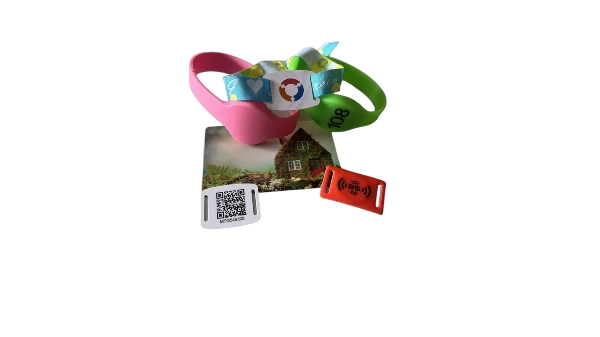
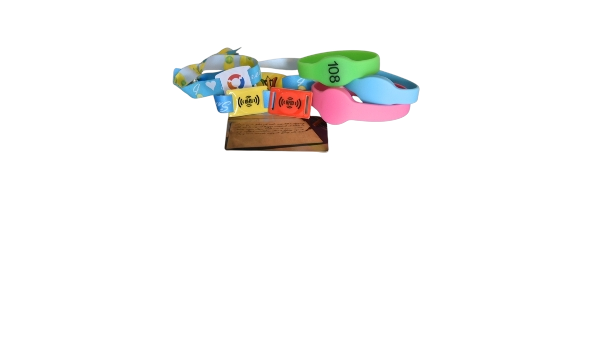
Changed the layout once more and adjusted the subpages

Changed region(s): [[0.27, 0.1187, 0.72, 0.6825]]

diff --git a/src/pages/Entertainment/subpages/Silicones.tsx b/src/pages/Entertainment/subpages/Silicones.tsx
@@ -71,43 +71,38 @@ const Silicones: React.FC = () => {
 
 	return (
 		<>
-			<Section fullHeight={false} className="overflow-visible min-h-screen h-auto flex flex-col">
-				<ProductsNav />
-				<div className="relative w-4/5 m-auto h-full py-10 flex-1">
-					<p className="text-xl font-semibold p-10 text-center block">
-						V ponuke silikóny fosforeskujúce, segmentované, silikónová kľúčenka, silikónové hodinky, náramok s potlačou QR kódu, náramok s číslovaním, atypický náramok, náramok s viacfarebnou potlačou.
-					</p>
-					<Grid cols={1} colsMd={2} colsLg={3} className="gap-10 px-20 flex-1">
-						{products.map((product, index) => (
-							/* <section
-								key={index}
-								ref={(el) => (sectionsRef.current[index] = el!)}
-								className={`w-full flex flex-col md:flex-row items-center justify-between py-12 px-6 md:px-20 gap-10
-									${index % 2 === 0 ? "md:flex-row-reverse" : ""}`}
-							>
-								<div className="w-full md:w-1/2">
-									<img
-									src={product.image}
-									alt={product.title}
-									className="w-full h-auto rounded-lg shadow-lg"
-									/>
-								</div>
+			<p className="text-xl font-semibold p-10 text-center block">
+				V ponuke silikóny fosforeskujúce, segmentované, silikónová kľúčenka, silikónové hodinky, náramok s potlačou QR kódu, náramok s číslovaním, atypický náramok, náramok s viacfarebnou potlačou.
+			</p>
+			<Grid cols={1} colsMd={2} colsLg={3} className="gap-10 px-6 flex-1">
+				{products.map((product, index) => (
+					/* <section
+						key={index}
+						ref={(el) => (sectionsRef.current[index] = el!)}
+						className={`w-full flex flex-col md:flex-row items-center justify-between py-12 px-6 md:px-20 gap-10
+							${index % 2 === 0 ? "md:flex-row-reverse" : ""}`}
+					>
+						<div className="w-full md:w-1/2">
+							<img
+							src={product.image}
+							alt={product.title}
+							className="w-full h-auto rounded-lg shadow-lg"
+							/>
+						</div>
 
-								<div className="w-full md:w-1/2">
-									<h2 className="text-3xl font-bold text-gray-900">{product.title}</h2>
-									<ul className="mt-4 text-gray-700 space-y-2">
-									{product.description.map((line, i) => (
-										<li key={i} className="text-lg">• {line}</li>
-									))}
-									</ul>
-								</div>
-							</section>
-							*/
-							<Product title={product.title} description={product.description} image={product.image} />
-						))}
-					</Grid>
-				</div>
-			</Section>
+						<div className="w-full md:w-1/2">
+							<h2 className="text-3xl font-bold text-gray-900">{product.title}</h2>
+							<ul className="mt-4 text-gray-700 space-y-2">
+							{product.description.map((line, i) => (
+								<li key={i} className="text-lg">• {line}</li>
+							))}
+							</ul>
+						</div>
+					</section>
+					*/
+					<Product title={product.title} description={product.description} image={product.image} />
+				))}
+			</Grid>
 		</>
 	)
 }

diff --git a/src/pages/Entertainment/subpages/Fabric.tsx b/src/pages/Entertainment/subpages/Fabric.tsx
@@ -3,6 +3,8 @@ import Section from "../../../components/Layout/Section"
 import ProductsNav from "../components/ProductsNav"
 import { gsap } from "gsap";
 import { ScrollTrigger } from "gsap/ScrollTrigger";
+import Grid from "../../../components/Layout/Grid";
+import Product from "../components/subpages/Product";
 
 gsap.registerPlugin(ScrollTrigger);
 
@@ -84,41 +86,14 @@ const Fabric: React.FC = () => {
 
 	return (
 		<>
-			<Section fullHeight={true} className="overflow-visible">
-				<ProductsNav />
-				<div className="relative w-full bg-gray-100 py-10">
-					<p className="text-xl font-semibold p-10 text-center block">
-						V ponuke silikóny fosforeskujúce, segmentované, silikónová kľúčenka, silikónové hodinky, náramok s potlačou QR kódu, náramok s číslovaním, atypický náramok, náramok s viacfarebnou potlačou.
-					</p>
-					{products.map((product, index) => (
-						<section
-						key={index}
-						ref={(el) => (sectionsRef.current[index] = el!)}
-						className={`w-full flex flex-col md:flex-row items-center justify-between py-12 px-6 md:px-20 gap-10
-							${index % 2 === 0 ? "md:flex-row-reverse" : ""}`}
-						>
-						{/* Obrázok */}
-						<div className="w-full md:w-1/2">
-							<img
-							src={product.image}
-							alt={product.title}
-							className="w-full h-auto rounded-lg shadow-lg"
-							/>
-						</div>
-
-						{/* Obsah */}
-						<div className="w-full md:w-1/2">
-							<h2 className="text-3xl font-bold text-gray-900">{product.title}</h2>
-							<ul className="mt-4 text-gray-700 space-y-2">
-							{product.description.map((line, i) => (
-								<li key={i} className="text-lg">• {line}</li>
-							))}
-							</ul>
-						</div>
-						</section>
-					))}
-				</div>
-			</Section>
+			<p className="text-xl font-semibold p-10 text-center block">
+				V ponuke silikóny fosforeskujúce, segmentované, silikónová kľúčenka, silikónové hodinky, náramok s potlačou QR kódu, náramok s číslovaním, atypický náramok, náramok s viacfarebnou potlačou.
+			</p>
+			<Grid cols={1} colsMd={2} colsLg={3} className="gap-10 px-6 flex-1">
+				{products.map((product, index) => (
+					<Product title={product.title} description={product.description} image={product.image} />
+				))}
+			</Grid>
 		</>
 	)
 }

diff --git a/src/sections/ContactForm.tsx b/src/sections/ContactForm.tsx
@@ -1,14 +1,56 @@
 import Section from "../components/Layout/Section"
 import Title from "../components/Layout/Title"
 import Input from "../components/Form/Input"
-import { useState } from "react"
+import { useEffect, useRef, useState } from "react"
 import Form from "../components/Form/Form"
 import Grid from "../components/Layout/Grid"
 import Selectbox from "../components/Form/Selectbox"
 import Textbox from "../components/Form/Textbox"
 import Checkbox from "../components/Form/Checkbox"
+import { ScrollTrigger } from "gsap/ScrollTrigger"
+import gsap from "gsap"
+
+gsap.registerPlugin(ScrollTrigger)
 
 const ContactForm: React.FC = () => {
+
+	const leftRef = useRef(null)
+	const rightRef = useRef(null)
+
+	useEffect(() => {
+		const elLeft = leftRef.current;
+		const elRight = rightRef.current;
+		gsap.fromTo(elLeft, {
+			opacity: 0,
+			x: -100
+		}, {
+			opacity: 1,
+			x: 0,
+			duration: 1,
+			scrollTrigger: {
+				trigger: elLeft,
+				start: "top 50%",
+				end: "bottom 50%",
+				toggleActions: "play reverse play reverse",
+				once: false,
+			}
+		})
+		gsap.fromTo(elRight, {
+			opacity: 0,
+			x: 100
+		}, {
+			opacity: 1,
+			x: 0,
+			duration: 1,
+			scrollTrigger: {
+				trigger: elRight,
+				start: "top 50%",
+				end: "bottom 50%",
+				toggleActions: "play reverse play reverse",
+				once: false
+			}
+		})
+	})
 
 	const [ mail, setMail ] = useState<string>("")
 	const [ phone, setPhone ] = useState<string>("")
@@ -48,12 +90,12 @@ const ContactForm: React.FC = () => {
 	return (
 		<Section>
 			<Grid cols={1} colsXl={5} className="h-full justify-center items-center">
-				<div className="xl:bg-gray-300 w-full h-full flex items-center justify-center col-span-2">
+				<div ref={leftRef} className="xl:bg-gray-300 w-full h-full flex items-center justify-center col-span-2">
 					<Title className="mb-20 px-20 text-center xl:text-left">
 						Napíšte nám
 					</Title>
 				</div>
-				<div className="w-full flex flex-col items-center justify-center col-span-3">
+				<div ref={rightRef} className="w-full h-full flex flex-col items-center justify-center col-span-3">
 					<Form className="w-full sm:w-4/5 xl:w-4/5 max-w-[40rem] px-16">
 						<Input
 							id="email"

diff --git a/src/pages/Layout.tsx b/src/pages/Layout.tsx
@@ -6,6 +6,8 @@ import Title from "../components/Layout/Title";
 import ArrowDown from "../components/Navigation/ArrowDown";
 import Contact from "../sections/Contact";
 import ContactForm from "../sections/ContactForm";
+import Section from "../components/Layout/Section";
+import ProductsNav from "./Entertainment/components/ProductsNav";
 
 const Layout: React.FC = () => {
 
@@ -47,7 +49,12 @@ const Layout: React.FC = () => {
 					</div>
 				</Cover>
 			</Header>
-			<Outlet />
+			<Section fullHeight={false} className="overflow-visible min-h-screen h-auto flex flex-col">
+				<ProductsNav />
+				<div className="relative w-full lg:w-4/5 m-auto h-full py-10 flex-1">
+					<Outlet />
+				</div>
+			</Section>
 			<ContactForm />
 		</>
 	)

diff --git a/src/pages/Entertainment/Entertainment.tsx b/src/pages/Entertainment/Entertainment.tsx
@@ -4,7 +4,7 @@ import ProductCard from "./components/ProductCard"
 
 const Entertainment: React.FC = () => {
 	return (
-		<Section fullHeight={true} className="overflow-visible pt-20">
+		<Section fullHeight={false} className="overflow-visible pt-20 min-h-screen">
 			<svg
 				xmlns="http://www.w3.org/2000/svg"
 				viewBox="-100 -100 1093 1093"
